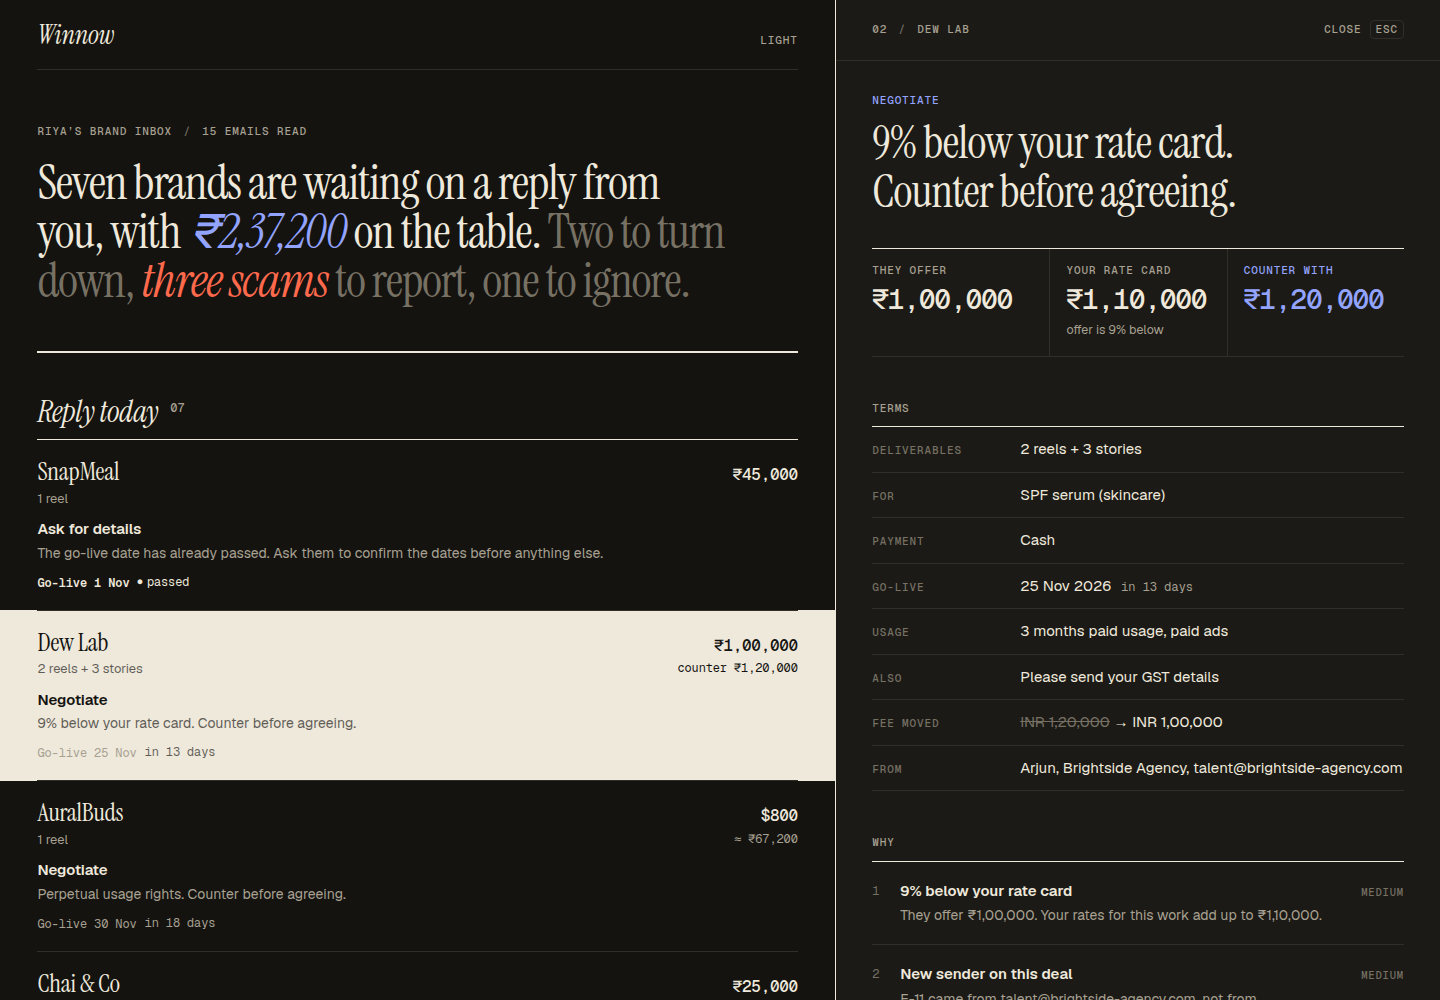
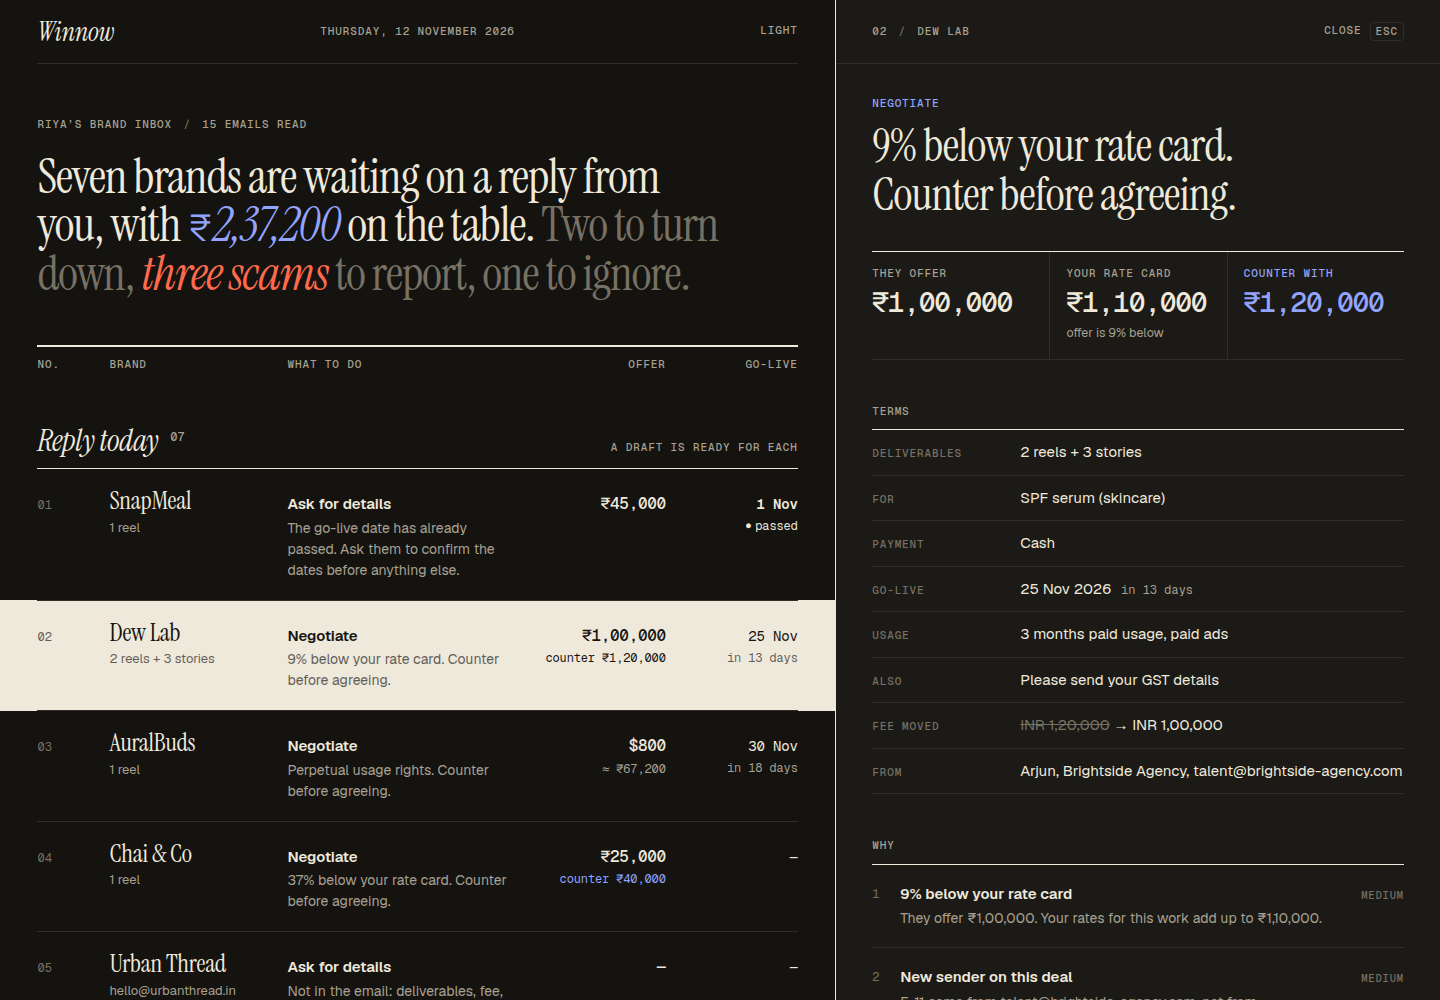
Polish the deal panel and refresh screenshots

diff --git a/web/App.tsx b/web/App.tsx
@@ -180,11 +180,14 @@ function Panel({ deal, onClose }: { deal: Deal; onClose: () => void }) {
   const t = deal.terms
   const d = due(today, deal)
   const offer = offerText(t)
-  const usage = t.usage ? [t.usage.text, t.usage.perpetual && 'perpetual', t.usage.paidAds && 'paid ads', t.usage.whitelisting && 'whitelisting'].filter(Boolean) : []
+  const said = (t.usage?.text ?? '').toLowerCase()
+  const usage = t.usage
+    ? [t.usage.text, t.usage.perpetual && 'perpetual', t.usage.paidAds && 'paid ads', t.usage.whitelisting && 'whitelisting'].filter((u) => u && (u === t.usage!.text || !said.includes(u.replace('paid ads', 'ads'))))
+    : []
   const terms: [string, React.ReactNode][] = []
   if (scopeText(t)) terms.push(['Deliverables', scopeText(t)])
   if (t.product) terms.push(['For', t.product])
-  if (t.paymentType !== 'not_stated') terms.push(['Payment', t.paymentType.replace(/_/g, ' ').replace('and', '+')])
+  if (t.paymentType !== 'not_stated') terms.push(['Payment', { cash: 'Cash', gifting: 'Gifting only', cash_and_gifting: 'Cash + gifting', commission_only: 'Commission only', not_stated: '' }[t.paymentType]])
   if (t.deadline?.date || t.deadline?.text)
     terms.push([
       'Go-live',
@@ -202,6 +205,8 @@ function Panel({ deal, onClose }: { deal: Deal; onClose: () => void }) {
         <s>{h.from}</s> → {h.to}
       </>,
     ])
+  // A scam's "terms" are bait, not terms: show only who sent it.
+  if (scam) terms.length = 0
   terms.push(['From', [deal.contact.name, deal.contact.org, deal.contact.email].filter(Boolean).join(', ')])
 
   return (
@@ -235,9 +240,9 @@ function Panel({ deal, onClose }: { deal: Deal; onClose: () => void }) {
             </div>
           )}
 
-          {terms.length > 1 && (
+          {(terms.length > 1 || scam) && (
             <section>
-              <h3>Terms</h3>
+              <h3>{scam ? 'Sent by' : 'Terms'}</h3>
               <dl className="terms">
                 {terms.map(([k, v]) => (
                   <div key={k}>

diff --git a/web/index.css b/web/index.css
@@ -258,6 +258,9 @@ kbd {
 .row.deal[aria-pressed='true'] .c-rank {
   opacity: 0.66;
 }
+.row.deal[aria-pressed='true'] > .c-due {
+  color: var(--paper);
+}
 .row.deal:focus-visible {
   outline-offset: -2px;
 }
@@ -517,9 +520,6 @@ kbd {
 }
 .terms dd {
   font-size: 15px;
-}
-.terms dd::first-letter {
-  text-transform: uppercase;
 }
 .terms s {
   color: var(--ink-3);
